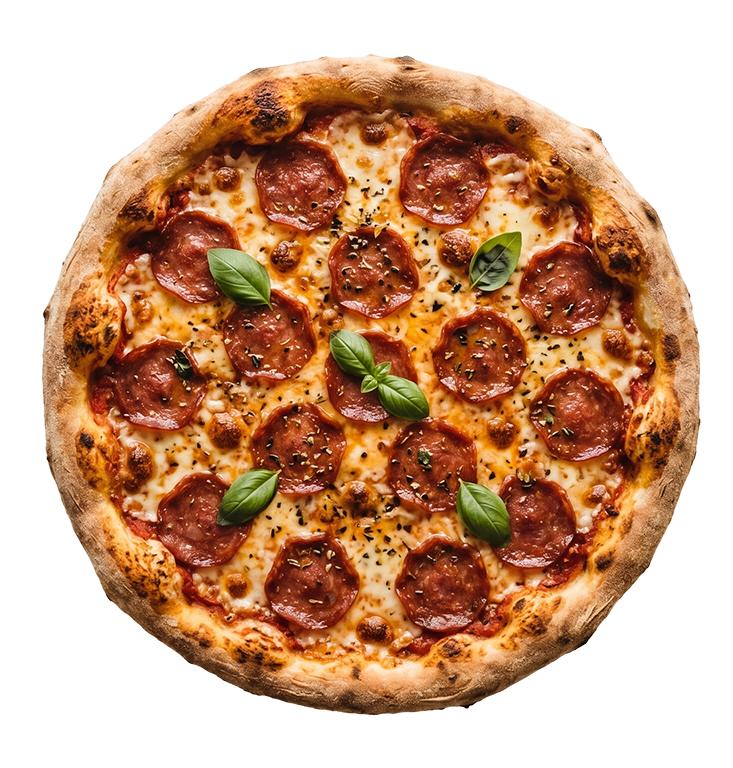
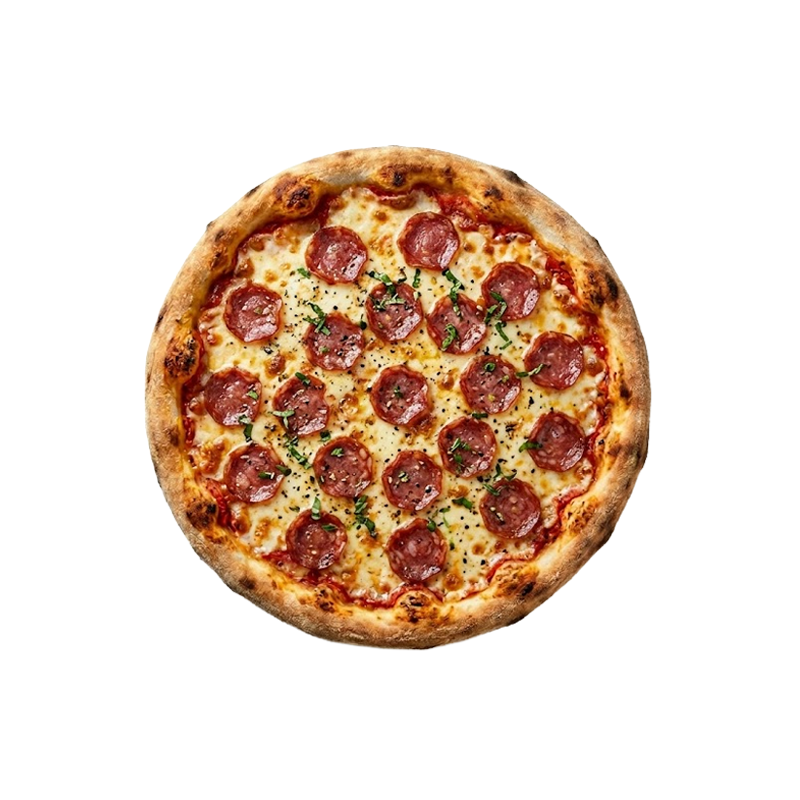
zprovoznení cele aplikace a jejích zakladních funkcí v reactu

diff --git a/src/pages/HomePage.tsx b/src/pages/HomePage.tsx
@@ -1,4 +1,4 @@
-import { useState } from 'react';
+import { useState, useRef, useEffect } from 'react';
 import { PizzaCard } from '../components/PizzaCard';
 import { pizzas } from '../data/pizzas';
 import type { PizzaCategory } from '../types';
@@ -15,6 +15,51 @@ const filters: { label: string; value: FilterType }[] = [
 
 export function HomePage() {
   const [activeFilter, setActiveFilter] = useState<FilterType>('all');
+  const [sliderStyle, setSliderStyle] = useState<React.CSSProperties>({});
+  const activeButtonRef = useRef<HTMLButtonElement>(null);
+
+  // Aktualizuj pozici slideru při změně aktivního filtru
+  useEffect(() => {
+    if (activeButtonRef.current) {
+      const button = activeButtonRef.current;
+      const parent = button.parentElement;
+      
+      if (parent) {
+        const parentRect = parent.getBoundingClientRect();
+        const buttonRect = button.getBoundingClientRect();
+        
+        setSliderStyle({
+          left: buttonRect.left - parentRect.left + 'px',
+          width: buttonRect.width + 'px',
+          height: buttonRect.height + 'px',
+        });
+      }
+    }
+  }, [activeFilter]);
+
+  // Aktualizuj slider při změně velikosti okna
+  useEffect(() => {
+    const handleResize = () => {
+      if (activeButtonRef.current) {
+        const button = activeButtonRef.current;
+        const parent = button.parentElement;
+        
+        if (parent) {
+          const parentRect = parent.getBoundingClientRect();
+          const buttonRect = button.getBoundingClientRect();
+          
+          setSliderStyle({
+            left: buttonRect.left - parentRect.left + 'px',
+            width: buttonRect.width + 'px',
+            height: buttonRect.height + 'px',
+          });
+        }
+      }
+    };
+
+    window.addEventListener('resize', handleResize);
+    return () => window.removeEventListener('resize', handleResize);
+  }, []);
 
   const filteredPizzas = activeFilter === 'all'
     ? pizzas
@@ -35,9 +80,16 @@ export function HomePage() {
 
         <div className="filters-container">
           <div className="filters">
+            {/* Animovaný slider pozadí */}
+            <div 
+              className="filter-slider"
+              style={sliderStyle}
+            />
+            
             {filters.map((filter) => (
               <button
                 key={filter.value}
+                ref={activeFilter === filter.value ? activeButtonRef : null}
                 className={`filter-btn ${activeFilter === filter.value ? 'active' : ''}`}
                 onClick={() => setActiveFilter(filter.value)}
               >

diff --git a/src/hooks/useCart.tsx b/src/hooks/useCart.tsx
@@ -14,30 +14,7 @@ interface CartContextType {
 const CartContext = createContext<CartContextType | undefined>(undefined);
 
 export function CartProvider({ children }: { children: ReactNode }) {
-  const [items, setItems] = useState<CartItem[]>([
-    // Demo data
-    {
-      id: '1',
-      pizzaId: 'syrova',
-      name: 'Quattro Formaggi',
-      price: 304,
-      quantity: 1,
-      image: '/images/syr.png',
-      dough: 'Klasické těsto',
-      base: 'Rajčatová omáčka',
-      extras: ['mozzarella', 'jalapeños'],
-    },
-    {
-      id: '2',
-      pizzaId: 'salami',
-      name: 'Salámová',
-      price: 249,
-      quantity: 1,
-      image: '/images/salam.png',
-      dough: 'Celozrnné těsto',
-      base: 'Smetanový základ',
-    },
-  ]);
+  const [items, setItems] = useState<CartItem[]>([]);
 
   const itemCount = items.reduce((sum, item) => sum + item.quantity, 0);
   const total = items.reduce((sum, item) => sum + item.price * item.quantity, 0);

diff --git a/src/scss/_hero.scss b/src/scss/_hero.scss
@@ -97,10 +97,21 @@
   border-radius: 50px;
   box-shadow: 0 4px 20px rgba(0, 0, 0, 0.06);
   border: 1px solid $border-card;
+  position: relative;
 
   @media (max-width: 600px) {
     gap: 8px;
   }
+}
+
+// Animovaný slider pozadí
+.filter-slider {
+  position: absolute;
+  background-color: $primary-color;
+  border-radius: 40px;
+  transition: all 0.3s cubic-bezier(0.4, 0, 0.2, 1);
+  z-index: 0;
+  box-shadow: 0 4px 12px rgba(184, 33, 50, 0.3);
 }
 
 .filter-btn {
@@ -112,17 +123,16 @@
   color: $text-muted;
   font-weight: 700;
   font-size: 14px;
-  transition: all 0.3s ease;
+  transition: color 0.3s ease;
+  position: relative;
+  z-index: 1;
 
   &:hover {
     color: $text-main;
-    background-color: $bg-page;
   }
 
   &.active {
-    background-color: $primary-color;
     color: white;
-    box-shadow: 0 4px 12px rgba(184, 33, 50, 0.3);
   }
 
   @media (max-width: 600px) {

diff --git a/src/data/pizzas.ts b/src/data/pizzas.ts
@@ -38,7 +38,7 @@ export const pizzas: Pizza[] = [
     name: 'Margherita',
     description: 'San Marzano rajčata, čerstvá Mozzarella, bazalka, olivový olej',
     price: 199,
-    image: '/images/margerita.png',
+    image: '/images/margarita.png',
     category: ['vegetarian', 'favorite'],
   },
   {
@@ -46,7 +46,7 @@ export const pizzas: Pizza[] = [
     name: 'Capricciosa',
     description: 'San Marzano rajčata, Mozzarella, šunka, žampiony, artyčoky',
     price: 259,
-    image: '/images/capricciosa.png',
+    image: '/images/capri.png',
     category: ['meat', 'favorite'],
   },
   {
@@ -62,7 +62,7 @@ export const pizzas: Pizza[] = [
     name: 'Crudo',
     description: 'San Marzano, Mozzarella, Prosciutto di Parma, rukola, parmazán',
     price: 269,
-    image: '/images/crudo.png',
+    image: '/images/sunka2.png',
     category: ['meat', 'favorite'],
   },
 ];

diff --git a/src/components/PizzaCard.tsx b/src/components/PizzaCard.tsx
@@ -1,4 +1,5 @@
 import { useNavigate } from 'react-router-dom';
+import { useCart } from '../hooks/useCart';
 import type { Pizza } from '../types';
 
 interface PizzaCardProps {
@@ -7,9 +8,23 @@ interface PizzaCardProps {
 
 export function PizzaCard({ pizza }: PizzaCardProps) {
   const navigate = useNavigate();
+  const { addItem } = useCart();
 
   const handleAddToCart = (e: React.MouseEvent) => {
     e.stopPropagation();
+    
+    // Přidat pizzu přímo do košíku s výchozími hodnotami
+    addItem({
+      pizzaId: pizza.id,
+      name: pizza.name,
+      price: pizza.price,
+      quantity: 1,
+      image: pizza.image,
+      dough: 'Klasické těsto',
+      base: 'Rajčatová omáčka',
+    });
+    
+    // Přesměrovat do košíku
     navigate('/kosik');
   };
 

diff --git a/src/scss/_cards.scss b/src/scss/_cards.scss
@@ -168,6 +168,29 @@
   &:hover {
     transform: scale(1.02);
   }
+
+  &:active {
+    transform: scale(0.95);
+  }
+}
+
+// Bounce animace pro tlačítko
+@keyframes button-bounce {
+  0% {
+    transform: scale(1);
+  }
+  30% {
+    transform: scale(1.15);
+  }
+  50% {
+    transform: scale(0.95);
+  }
+  70% {
+    transform: scale(1.05);
+  }
+  100% {
+    transform: scale(1);
+  }
 }
 
 .btn-text {
